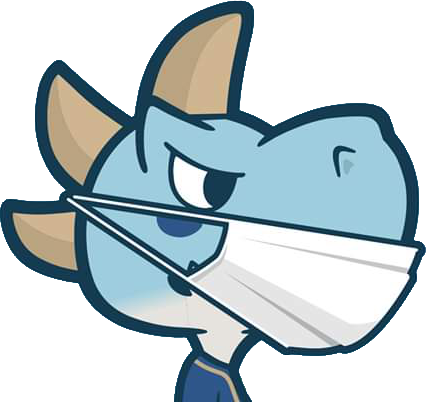
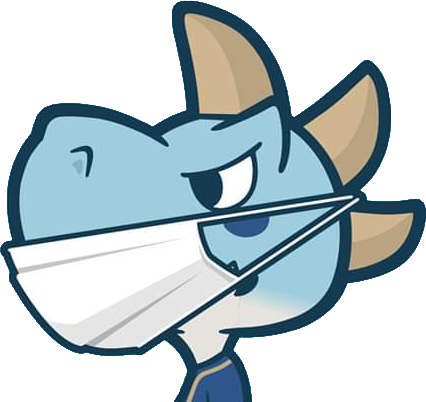
update

diff --git a/public/index.html b/public/index.html
@@ -1184,7 +1184,7 @@
         
         
         <a href="/teams/ncdinos/">
-          <img src="/teams/ncdinos/featured_hu2d063c5e74b453d8a2b2ebceedfb5f90_137620_250x0_resize_lanczos_2.png" itemprop="image">
+          <img src="/teams/ncdinos/featured_hu1746cba450e6662f6ffafc6c2958a003_136440_250x0_resize_lanczos_2.png" itemprop="image">
         </a>
         
       </div>
